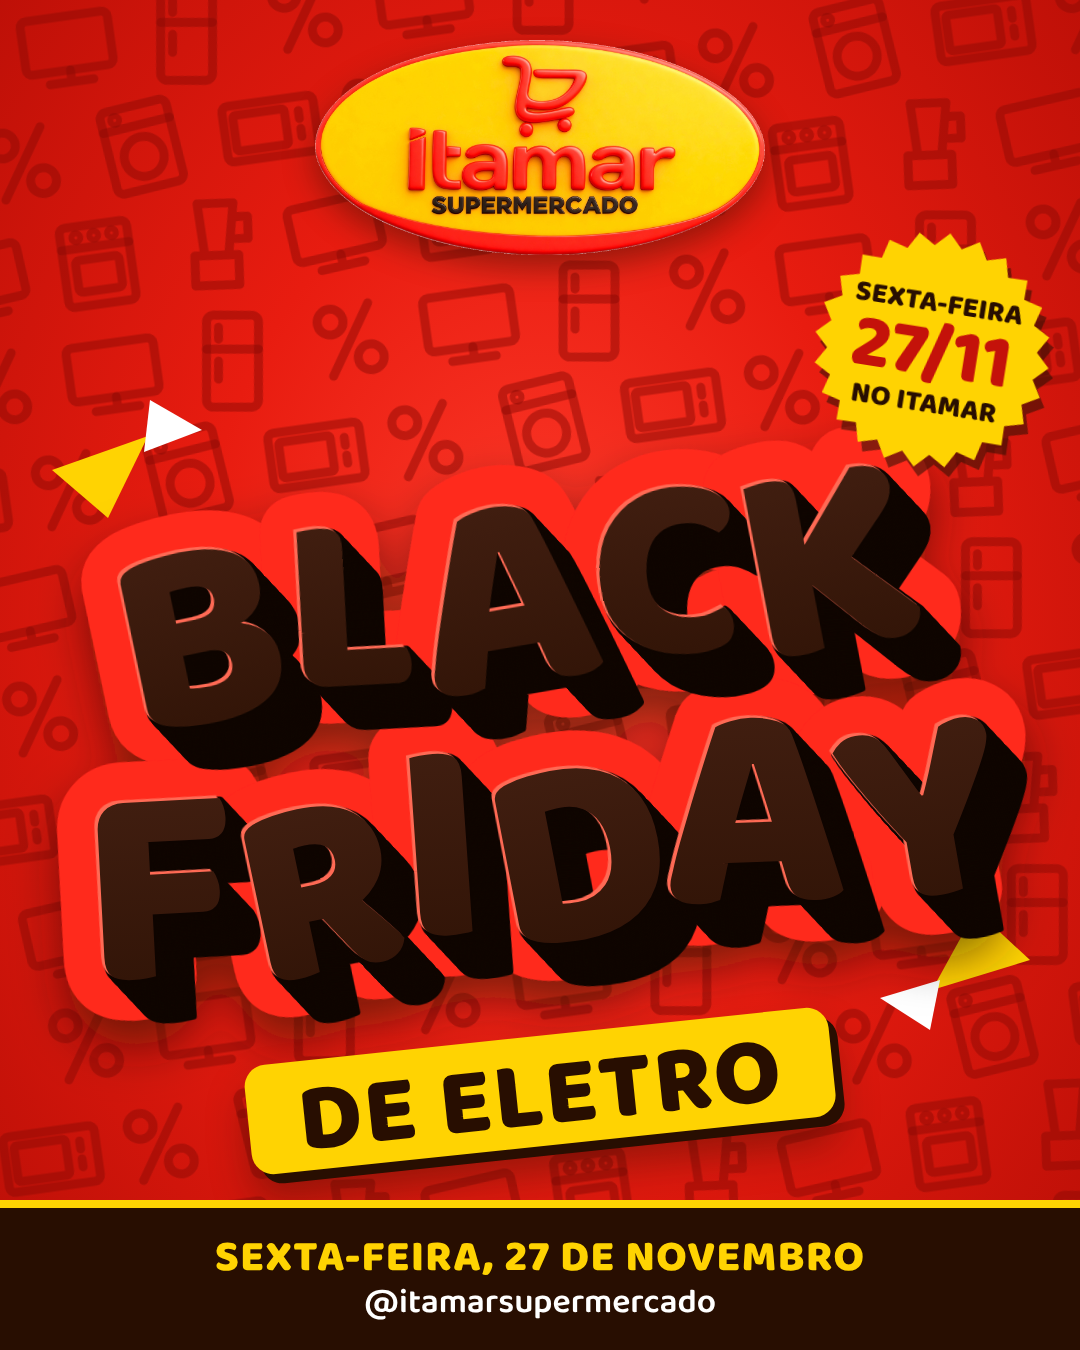
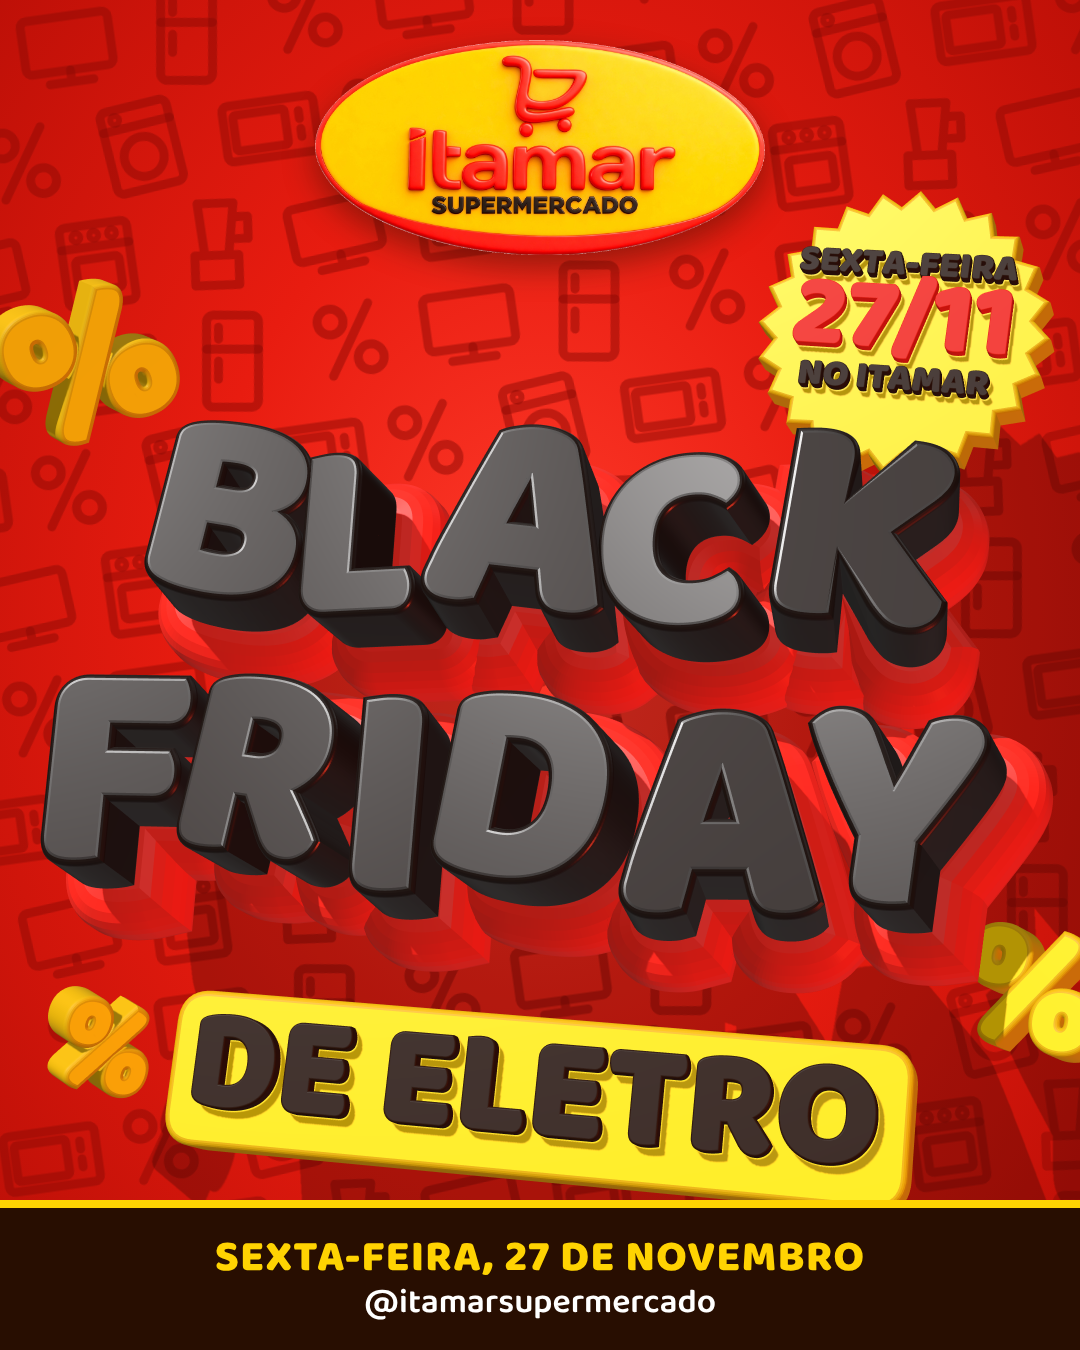
Itamar Supermercado: Black Friday de Eletro com letreiro 3D
Letreiro, faixa, selo da data e símbolos de % agora são modelos 3D
(three.js) renderizados em PNG transparente e aplicados no card.
Inclui a cena editável e o script de render.

Claude-Session: https://claude.ai/code/session_01RAcsiAzLzneWdZzCU3GSGv

diff --git a/clientes/itamar-supermercado/entregas/2026-11-10-black-friday-eletro/cena-3d.html b/clientes/itamar-supermercado/entregas/2026-11-10-black-friday-eletro/cena-3d.html
@@ -1,0 +1,83 @@
+<!doctype html><meta charset="utf-8">
+<!-- Cena 3D do letreiro (three.js). Renderizar com: node render-3d.js  → gera letreiro-3d.png (fundo transparente). -->
+<style>html,body{margin:0;background:transparent}canvas{display:block}</style>
+<script src="/three/clipper.js"></script>
+<script type="importmap">{"imports":{"three":"/three/build/three.module.js","three/addons/":"/three/examples/jsm/"}}</script>
+<script type="module">
+import * as THREE from 'three';
+import {TTFLoader} from 'three/addons/loaders/TTFLoader.js';
+import {Font} from 'three/addons/loaders/FontLoader.js';
+import {RoomEnvironment} from 'three/addons/environments/RoomEnvironment.js';
+
+const W=1080,H=1350,AMARELO=0xFFD302,VERMELHO=0xFF291E,MARROM=0x280E01;
+const r=new THREE.WebGLRenderer({antialias:true,alpha:true,preserveDrawingBuffer:true});
+r.setSize(W,H);r.setPixelRatio(2);r.setClearColor(0,0);r.shadowMap.enabled=true;r.shadowMap.type=THREE.PCFSoftShadowMap;
+r.toneMapping=THREE.NoToneMapping;document.body.appendChild(r.domElement);
+const cena=new THREE.Scene();
+cena.environment=new THREE.PMREMGenerator(r).fromScene(new RoomEnvironment(),.04).texture;cena.environmentIntensity=.1;
+const DIST=2600,cam=new THREE.PerspectiveCamera(2*Math.atan(H/2/DIST)*180/Math.PI,W/H,100,6000);cam.position.set(0,0,DIST);
+
+const sol=new THREE.DirectionalLight(0xffffff,3.0);sol.position.set(-1100,1500,1500);sol.castShadow=true;
+Object.assign(sol.shadow.camera,{left:-1000,right:1000,top:1000,bottom:-1000,near:100,far:5000});sol.shadow.mapSize.set(4096,4096);sol.shadow.radius=10;sol.shadow.bias=-.0005;cena.add(sol);
+const contra=new THREE.PointLight(0xff3a20,1.6,0,0);contra.position.set(900,-700,500);cena.add(contra);
+cena.add(new THREE.AmbientLight(0xffffff,.9));
+
+const mat=(cor,o={})=>new THREE.MeshPhysicalMaterial({color:cor,roughness:.62,metalness:0,specularIntensity:.35,clearcoat:.12,clearcoatRoughness:.4,...o});
+const M={face:mat(0x1D0A03,{roughness:.5,clearcoat:.25,clearcoatRoughness:.3}),lado:mat(0x160702,{roughness:.35,clearcoat:.5,specularIntensity:1}),base:mat(VERMELHO,{roughness:.45,clearcoat:.3}),
+  amarelo:mat(AMARELO,{roughness:.35}),amareloLado:mat(0xD9A800),marrom:mat(MARROM),verm:mat(0xD81A0E)};
+
+new TTFLoader().load('/ferramentas/fontes/ttf/baloo-2-latin-800-normal.ttf',json=>{
+  const fonte=new Font(json),esc=s=>s/fonte.data.resolution;
+  const larg=(t,s)=>[...t].map(c=>(fonte.data.glyphs[c]||fonte.data.glyphs['?']).ha*esc(s));
+  // une os contornos sobrepostos do glifo (regra nonzero) para a extrusão sair limpa
+  const unir=shapes=>{const E=200,cs=shapes.flatMap(s=>[s.getPoints(14),...s.holes.map(h=>h.getPoints(14))]).map(p=>p.map(v=>({X:Math.round(v.x*E),Y:Math.round(v.y*E)})));
+    const c=new ClipperLib.Clipper(),arv=new ClipperLib.PolyTree();c.AddPaths(cs,ClipperLib.PolyType.ptSubject,true);
+    c.Execute(ClipperLib.ClipType.ctUnion,arv,ClipperLib.PolyFillType.pftNonZero,ClipperLib.PolyFillType.pftNonZero);
+    const v2=p=>p.map(q=>new THREE.Vector2(q.X/E,q.Y/E));
+    return ClipperLib.JS.PolyTreeToExPolygons(arv).map(e=>{const sh=new THREE.Shape(v2(e.outer));sh.holes=e.holes.map(h=>new THREE.Path(v2(h)));return sh;});};
+  const solido=(shapes0,prof,chanfro,mats)=>{const shapes=shapes0[0]?.type==='Shape'&&shapes0!==RET&&shapes0!==RET2?unir(shapes0):shapes0;const g=new THREE.ExtrudeGeometry(shapes,{depth:prof,bevelEnabled:chanfro>0,bevelSize:chanfro,bevelThickness:chanfro,bevelSegments:5,curveSegments:10});
+    const m=new THREE.Mesh(g,mats);m.castShadow=m.receiveShadow=true;return m;};
+  // texto simples (uma peça), centralizado em x
+  const texto=(t,s,prof,m,ch=2)=>{const sh=fonte.generateShapes(t,s),o=solido(sh,prof,ch,m);o.geometry.computeBoundingBox();const b=o.geometry.boundingBox;o.geometry.translate(-(b.min.x+b.max.x)/2,0,0);return o;};
+
+  const RET=[],RET2=[];
+  // ---------- LETREIRO: cada letra é uma peça com giro próprio + placa vermelha por trás
+  const letreiro=new THREE.Group();
+  const LINHAS=[["BLACK",40,770,[[-5,6,1,.10],[4,-10,.95,-.08],[-3,8,1.05,.06],[5,-6,.96,-.10],[-4,10,1.04,.08]]],
+                ["FRIDAY",-215,890,[[4,-4,1.04,.09],[-5,10,.96,-.07],[3,-12,1.05,.05],[-4,6,.97,-.06],[5,-8,1.05,.08],[-3,8,1,-.09]]]];
+  let n=0;
+  for(const [t,y,alvo,v] of LINHAS){
+    const w0=larg(t,300),k=alvo/w0.reduce((a,b)=>a+b,0),s=300*k;let x=-alvo/2;
+    [...t].forEach((c,i)=>{const [rz,dy,sc,ry]=v[i],w=w0[i]*k,sh=fonte.generateShapes(c,s);
+      const p=new THREE.Group(),alt=s*.33;
+      const letra=solido(sh,95,7,[M.face,M.lado]);letra.geometry.translate(-w/2,-alt,0);
+      const placa=solido(sh,26,36,M.base);placa.geometry.translate(-w/2,-alt,0);placa.position.z=-95-(n++%3)*4;placa.castShadow=false;
+      p.add(letra,placa);p.position.set(x+w/2,y+dy+alt,0);p.rotation.set(0,ry,rz*Math.PI/180);p.scale.setScalar(sc);letreiro.add(p);x+=w;});
+  }
+  letreiro.position.set(-8,-5,120);letreiro.rotation.set(-.30,-.22,-7*Math.PI/180);cena.add(letreiro);
+
+  // ---------- FAIXA "DE ELETRO"
+  const faixa=new THREE.Group(),fw=690,fh=136,rr=26,ret=new THREE.Shape();RET.push(ret);
+  ret.moveTo(-fw/2+rr,-fh/2);ret.lineTo(fw/2-rr,-fh/2);ret.quadraticCurveTo(fw/2,-fh/2,fw/2,-fh/2+rr);ret.lineTo(fw/2,fh/2-rr);ret.quadraticCurveTo(fw/2,fh/2,fw/2-rr,fh/2);
+  ret.lineTo(-fw/2+rr,fh/2);ret.quadraticCurveTo(-fw/2,fh/2,-fw/2,fh/2-rr);ret.lineTo(-fw/2,-fh/2+rr);ret.quadraticCurveTo(-fw/2,-fh/2,-fw/2+rr,-fh/2);
+  faixa.add(solido(RET,46,6,[M.amarelo,M.amareloLado]));
+  const el=texto("DE ELETRO",96,16,M.marrom);el.position.set(0,-34,50);faixa.add(el);
+  faixa.position.set(0,-402,150);faixa.rotation.set(-.26,-.2,-6*Math.PI/180);cena.add(faixa);
+
+  // ---------- SELO da data
+  const selo=new THREE.Group(),est=new THREE.Shape();
+  for(let i=0;i<48;i++){const a=i*Math.PI/24,R=i%2?116:131;est[i?'lineTo':'moveTo'](R*Math.cos(a),R*Math.sin(a));}
+  RET2.push(est);selo.add(solido(RET2,34,4,[M.amarelo,M.amareloLado]));
+  [["SEXTA-FEIRA",25,50,M.marrom],["27/11",70,-20,M.verm],["NO ITAMAR",25,-60,M.marrom]].forEach(([t,s,y,m])=>{const o=texto(t,s,10,m,1);o.position.set(0,y,38);selo.add(o);});
+  selo.position.set(345,312,160);selo.rotation.set(-.2,-.28,-9*Math.PI/180);cena.add(selo);
+
+  // ---------- "%" flutuando
+  [[-430,250,60,150,.3,.5,.3],[455,-345,200,120,-.3,-.5,-.25],[-455,-395,40,95,.2,.6,-.4]].forEach(([x,y,z,s,rx,ry,rz])=>{
+    const o=texto("%",s,34,[M.amarelo,M.amareloLado],5);o.position.set(x,y,z);o.rotation.set(rx,ry,rz);cena.add(o);});
+
+  // ---------- chão invisível que só recebe sombra
+  const chao=new THREE.Mesh(new THREE.PlaneGeometry(4000,4000),new THREE.ShadowMaterial({opacity:.24}));chao.position.z=-60;chao.receiveShadow=true;cena.add(chao);
+
+  r.render(cena,cam);window.pronto=true;
+});
+</script>

diff --git a/clientes/itamar-supermercado/entregas/2026-11-10-black-friday-eletro/black-friday-eletro.html b/clientes/itamar-supermercado/entregas/2026-11-10-black-friday-eletro/black-friday-eletro.html
@@ -1,21 +1,14 @@
 <!doctype html><meta charset="utf-8"><meta name="tamanho" content="1080x1350"><link rel="stylesheet" href="../../../../ferramentas/fontes.css">
 <!-- Card Black Friday de Eletro (1080x1350) · Itamar Supermercado · 27/11/2026.
-     Para editar: textos em .faixa, .selo e .rod; letreiro nas constantes LINHAS do script. -->
+     Letreiro, faixa e selo são 3D: editar em cena-3d.html e rodar render-3d.js (gera letreiro-3d.png). -->
 <style>
 :root{--amarelo:#FFD302;--vermelho:#FF291E;--marrom:#280E01}
 *{box-sizing:border-box;margin:0}
 body{width:1080px;height:1350px;overflow:hidden;position:relative;font-family:"Baloo 2",sans-serif;color:var(--marrom);
   background:radial-gradient(ellipse at 50% 46%,#FF3A2A 0,#E81C10 45%,#B80E06 100%)}
-#fundo,#letreiro{position:absolute;inset:0}
+#fundo,#letreiro{position:absolute;inset:0;width:1080px;height:1350px}
 .logo{position:absolute;top:40px;left:0;right:0;text-align:center}
 .logo img{height:215px;filter:drop-shadow(0 12px 16px rgba(40,14,1,.45))}
-.faixa{position:absolute;left:50%;top:1036px;transform:translateX(-50%) rotate(-6deg);background:var(--amarelo);
-  font:800 96px/1 "Baloo 2";padding:14px 50px 0;border-radius:22px;white-space:nowrap;letter-spacing:2px;
-  box-shadow:8px 10px 0 var(--marrom),0 26px 40px rgba(40,14,1,.4)}
-.selo{position:absolute;right:30px;top:232px;width:236px;height:236px;display:grid;place-items:center;transform:rotate(9deg);filter:drop-shadow(6px 9px 0 rgba(40,14,1,.55))}
-.selo svg{position:absolute;inset:0}
-.selo div{position:relative;text-align:center;font:800 29px/1 "Baloo 2";padding-top:8px}
-.selo b{display:block;font:800 76px/.95 "Baloo 2";color:#C4120A}
 .rod{position:absolute;left:0;right:0;bottom:0;height:150px;background:var(--marrom);color:#fff;text-align:center;
   display:flex;flex-direction:column;justify-content:center;font:600 34px/1.25 "Baloo 2";border-top:8px solid var(--amarelo)}
 .rod b{font:800 44px/1.1 "Baloo 2";color:var(--amarelo);letter-spacing:1px}
@@ -38,45 +31,7 @@ body{width:1080px;height:1350px;overflow:hidden;position:relative;font-family:"B
     </pattern>
   </defs>
   <rect width="1080" height="1350" fill="url(#pad)"/>
-  <!-- recortes de papel -->
-  <g fill="#FFD302" stroke="#280E01" stroke-width="0">
-    <path d="M52 470l96 -34 -40 82z"/><path d="M150 400l52 30 -58 22z" fill="#fff"/>
-    <path d="M1030 960l-98 30 44 -80z"/><path d="M930 1030l-50 -32 60 -18z" fill="#fff"/>
-  </g>
 </svg>
-<svg id="letreiro" viewBox="0 0 1080 1350">
-  <defs>
-    <linearGradient id="face" x1="0" y1="0" x2="0" y2="1"><stop offset="0" stop-color="#4A2416"/><stop offset="1" stop-color="#280E01"/></linearGradient>
-    <filter id="somb" x="-20%" y="-20%" width="140%" height="150%"><feDropShadow dx="0" dy="26" stdDeviation="24" flood-color="#280E01" flood-opacity=".55"/></filter>
-    <g id="pal" font-family="Baloo 2" font-weight="800" text-anchor="middle"></g>
-  </defs>
-  <g transform="translate(-12 34) rotate(-7 540 690)">
-    <use href="#pal" fill="#FF291E" stroke="#FF291E" stroke-width="78" stroke-linejoin="round" filter="url(#somb)"/>
-    <g id="ext" fill="#0E0400" stroke="#0E0400" stroke-width="5" stroke-linejoin="round"></g>
-    <use href="#pal" x="-3" y="-3" fill="#FF6A55"/>
-    <use href="#pal" fill="url(#face)"/>
-  </g>
-</svg>
+<img id="letreiro" src="letreiro-3d.png" alt="Black Friday de Eletro · sexta-feira 27/11">
 <div class="logo"><img src="../../identidade/logo-itamar-3d-transparente.png" alt="Itamar Supermercado"></div>
-<div class="selo"><svg viewBox="-135 -135 270 270"><polygon id="estrela" fill="#FFD302"/></svg><div>SEXTA-FEIRA<b>27/11</b>NO ITAMAR</div></div>
-<div class="faixa">DE ELETRO</div>
 <p class="rod"><b>SEXTA-FEIRA, 27 DE NOVEMBRO</b>@itamarsupermercado</p>
-<script>
-// [texto, tamanho, linha de base Y, largura-alvo, variações por letra: rotação°, deslocY, escala]
-const LINHAS=[["BLACK",300,640,800,[[-5,6,1],[4,-10,.94],[-3,8,1.06],[5,-6,.96],[-4,10,1.04]]],
-              ["FRIDAY",300,900,920,[[4,-4,1.04],[-5,10,.95],[3,-12,1.05],[-4,6,.97],[5,-8,1.06],[-3,8,1]]]];
-document.fonts.load('800 100px "Baloo 2"').then(()=>{
-  const ns="http://www.w3.org/2000/svg",pal=document.getElementById("pal"),c=document.createElement("canvas").getContext("2d");
-  for(const [t,fs,y,alvo,v] of LINHAS){
-    c.font=`800 ${fs}px "Baloo 2"`;const w=[...t].map(ch=>c.measureText(ch).width);
-    const k=alvo/w.reduce((a,b)=>a+b,0);let x=540-alvo/2;
-    [...t].forEach((ch,i)=>{const cx=x+w[i]*k/2;x+=w[i]*k;const [r,dy,s]=v[i];
-      const e=document.createElementNS(ns,"text");e.textContent=ch;e.setAttribute("font-size",fs*k);
-      e.setAttribute("transform",`translate(${cx} ${y+dy}) rotate(${r} 0 ${-fs*k*.33}) scale(${s})`);pal.appendChild(e);});
-  }
-  const ext=document.getElementById("ext");
-  for(let i=30;i>=1;i--){const u=document.createElementNS(ns,"use");u.setAttribute("href","#pal");u.setAttribute("x",i*1.1);u.setAttribute("y",i*1.5);ext.appendChild(u);}
-  let p=[];for(let i=0;i<48;i++){const a=i*Math.PI/24,r=i%2?120:135;p.push((r*Math.cos(a)).toFixed(1)+","+(r*Math.sin(a)).toFixed(1));}
-  document.getElementById("estrela").setAttribute("points",p.join(" "));
-});
-</script>

diff --git a/clientes/itamar-supermercado/entregas/2026-11-10-black-friday-eletro/render-3d.js b/clientes/itamar-supermercado/entregas/2026-11-10-black-friday-eletro/render-3d.js
@@ -1,0 +1,19 @@
+// Renderiza cena-3d.html → letreiro-3d.png (2160x2700, fundo transparente).
+// Uso (na raiz do repositório): THREE_DIR=/caminho/node_modules/three node clientes/itamar-supermercado/entregas/2026-11-10-black-friday-eletro/render-3d.js
+// (three.js não fica no repositório: `npm i three@0.170.0 clipper-lib@6.4.2` em qualquer pasta, copie
+//  node_modules/clipper-lib/clipper.js para dentro de node_modules/three/ e aponte THREE_DIR para node_modules/three.)
+const {chromium}=require('playwright'),http=require('http'),fs=require('fs'),path=require('path');
+const raiz=process.cwd(),three=process.env.THREE_DIR,aqui=path.relative(raiz,__dirname);
+const tipos={'.html':'text/html','.js':'text/javascript','.ttf':'font/ttf'};
+const srv=http.createServer((q,s)=>{const u=decodeURIComponent(q.url.split('?')[0]);
+  const f=u.startsWith('/three/')?path.join(three,u.slice(7)):path.join(raiz,u);
+  fs.readFile(f,(e,d)=>{if(e){s.writeHead(404);return s.end();}s.writeHead(200,{'content-type':tipos[path.extname(f)]||'application/octet-stream'});s.end(d);});});
+srv.listen(0,async()=>{
+  const b=await chromium.launch({args:['--use-gl=angle','--use-angle=swiftshader','--enable-unsafe-swiftshader','--ignore-gpu-blocklist']});
+  const p=await b.newPage({viewport:{width:1080,height:1350},deviceScaleFactor:2});
+  p.on('console',m=>m.type()==='error'&&console.log('ERRO:',m.text()));p.on('pageerror',e=>console.log('ERRO:',e.message));
+  await p.goto(`http://localhost:${srv.address().port}/${aqui}/cena-3d.html`);
+  await p.waitForFunction('window.pronto',null,{timeout:120000});
+  const out=path.join(__dirname,'letreiro-3d.png');await p.screenshot({path:out,omitBackground:true});console.log(out);
+  await b.close();srv.close();
+});
